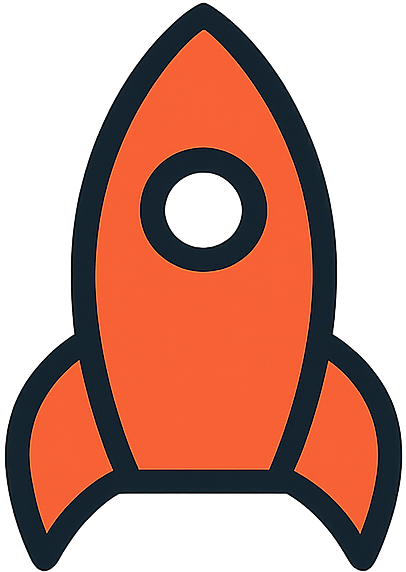
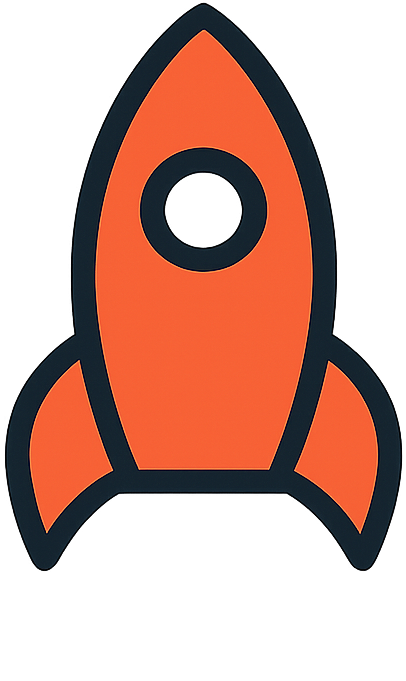
Visualize rockets firing

diff --git a/src/sprites.py b/src/sprites.py
@@ -33,18 +33,32 @@ class CelestialBodySprite(pg.sprite.Sprite):
 
 class SpaceshipSprite(pg.sprite.Sprite):
 
-  def __init__(self, spaceship: cm.Spaceship, rocket_img: pg.Surface, sprite_groups: Sequence[pg.sprite.Group]):
+  def __init__(self, spaceship: cm.Spaceship, sprite_groups: Sequence[pg.sprite.Group]):
     super().__init__(*sprite_groups)
     self.ship = spaceship
-    self.orig_img = rocket_img
-    self.image = self.orig_img.copy()
+    self._setup_rocket_imgs()
+    self.image = self.orig_imgs[0].copy()
     self.rect = self.image.get_rect()
     self.update()
 
   def update(self):
-    self.image = pg.transform.rotate(self.orig_img, -self.ship.angle * 180 / math.pi - 90)
+    if self.ship.last_action:
+      which_img = self.ship.last_action.right_thruster * 2 + self.ship.last_action.left_thruster
+    else:
+      which_img = 0
+    self.image = pg.transform.rotate(self.orig_imgs[which_img], -self.ship.angle * 180 / math.pi - 90)
     self.rect = self.image.get_rect()
     self.rect.center = (self.ship.position.x / SCALE, self.ship.position.y / SCALE)
+
+  def _setup_rocket_imgs(self) -> None:
+    main_dir = os.path.split(os.path.abspath(__file__))[0]
+    self.orig_imgs = []
+    for filename in ['rocket.png', 'rocket_left.png', 'rocket_right.png', 'rocket_both.png']:
+      rocket_img = pg.image.load(os.path.join(main_dir, 'res', filename)).convert()
+      original_size = rocket_img.get_size()
+      scale_factor = min(30 / original_size[0], 30 / original_size[1])
+      new_size = (original_size[0] * scale_factor, original_size[1] * scale_factor)
+      self.orig_imgs.append(pg.transform.smoothscale(rocket_img, new_size))
 
 
 class InfoboxSprite(pg.sprite.Sprite):
@@ -92,12 +106,3 @@ def setup_screen() -> pg.Surface:
   winstyle = 0  # | pg.FULLSCREEN
   best_depth = pg.display.mode_ok(SCREEN_RECT.size, winstyle, 32)
   return pg.display.set_mode(SCREEN_RECT.size, winstyle, best_depth)
-
-
-def setup_rocket_img() -> pg.Surface:
-  main_dir = os.path.split(os.path.abspath(__file__))[0]
-  rocket_img = pg.image.load(os.path.join(main_dir, 'res', 'rocket.png')).convert()
-  original_size = rocket_img.get_size()
-  scale_factor = min(30 / original_size[0], 30 / original_size[1])
-  new_size = (original_size[0] * scale_factor, original_size[1] * scale_factor)
-  return pg.transform.smoothscale(rocket_img, new_size)

diff --git a/src/celestial_mechanics.py b/src/celestial_mechanics.py
@@ -3,7 +3,7 @@
 import dataclasses
 import datetime
 import math
-from typing import Sequence
+from typing import Optional, Sequence
 
 import pygame as pg
 
@@ -129,21 +129,29 @@ class CelestialBody(SpaceObject):
 
 
 @dataclasses.dataclass
+class Action:
+  left_thruster: bool
+  right_thruster: bool
+
+
+@dataclasses.dataclass
 class Spaceship(SpaceObject):
   angle: float  # Radians clockwise from x-axis
   angular_velocity: float  # Radians per second
+  last_action: Optional[Action] = None  # used for plotting the thruster flames
 
   def update_self(self, all_objects: Sequence[SpaceObject], time_step: float) -> None:
     self.angle += self.angular_velocity * time_step
     super().update_self(all_objects, time_step)
 
-  def fire_thrusters(self, left_thruster: bool, right_thruster: bool, time_step: float) -> None:
-    if left_thruster and not right_thruster:
+  def apply_action(self, action: Action, time_step: float) -> None:
+    self.last_action = action
+    if action.left_thruster and not action.right_thruster:
       self.angular_velocity -= 0.05
-    elif right_thruster and not left_thruster:
+    elif action.right_thruster and not action.left_thruster:
       self.angular_velocity += 0.05
 
-    thrust = (left_thruster + right_thruster)/2 * SPACESHIP_THRUST
+    thrust = (action.left_thruster + action.right_thruster)/2 * SPACESHIP_THRUST
     acceleration = thrust / self.mass
     delta_v_norm = acceleration * time_step
     delta_v = Vector(delta_v_norm * math.cos(self.angle), delta_v_norm * math.sin(self.angle))

diff --git a/src/space_rl_main.py b/src/space_rl_main.py
@@ -32,7 +32,7 @@ def build_state() -> cm.State:
     ),
     other_objects=[
       cm.CelestialBody(
-        mass=5e32,
+        mass=1e33,
         position=cm.Vector(cm.UNIVERSE_RECT.width / 2, cm.UNIVERSE_RECT.height * 0.2),
         velocity=cm.Vector(5e7, 0),
         name='Luna',
@@ -48,7 +48,6 @@ def build_state() -> cm.State:
 
 def graphics_loop(state: cm.State) -> None:
   screen = sprites.setup_screen()
-  rocket_img = sprites.setup_rocket_img()
   clock = pg.time.Clock()
 
   fast_update_sprites = pg.sprite.Group()
@@ -64,7 +63,6 @@ def graphics_loop(state: cm.State) -> None:
     ),
     sprites.SpaceshipSprite(
       spaceship=state.spaceship,
-      rocket_img=rocket_img,
       sprite_groups=[fast_update_sprites],
     ),
     sprites.InfoboxSprite(
@@ -87,8 +85,8 @@ def graphics_loop(state: cm.State) -> None:
     keys_pressed = pg.key.get_pressed()
     fire_left = keys_pressed[pg.K_LEFT]
     fire_right = keys_pressed[pg.K_RIGHT]
-    state.spaceship.fire_thrusters(
-        left_thruster=fire_left, right_thruster=fire_right, time_step=SEC_PER_FRAME
+    state.spaceship.apply_action(
+        cm.Action(left_thruster=fire_left, right_thruster=fire_right), time_step=SEC_PER_FRAME
     )
 
     celestial_exceptions = state.update_positions(time_step=SEC_PER_FRAME)
